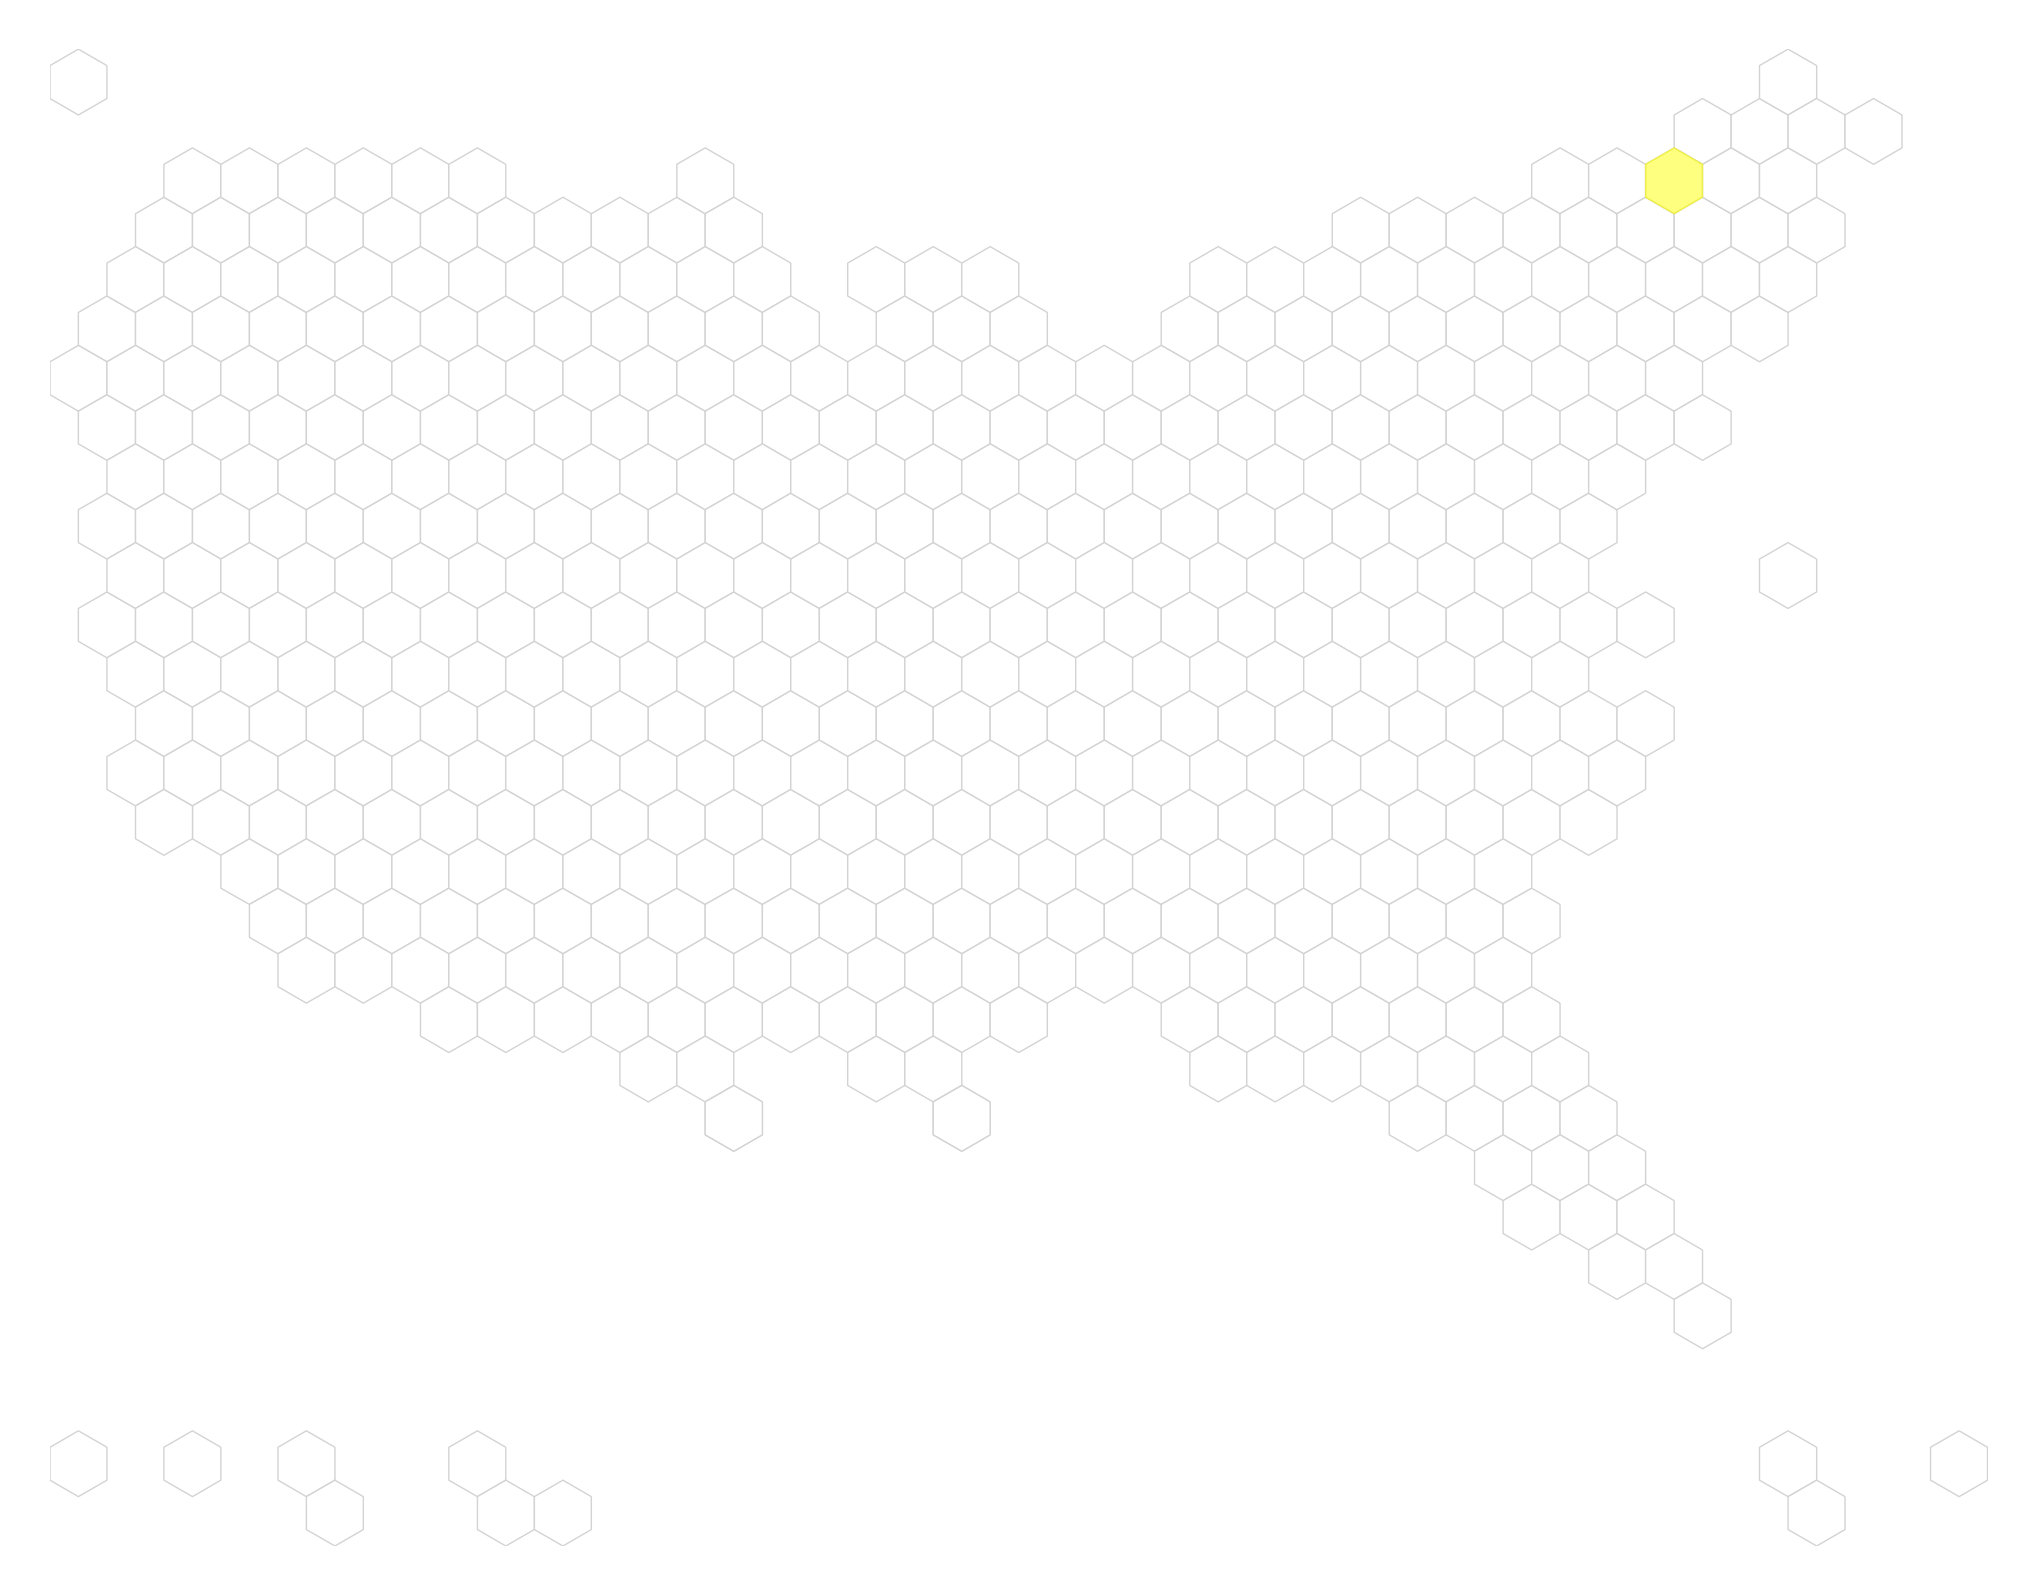
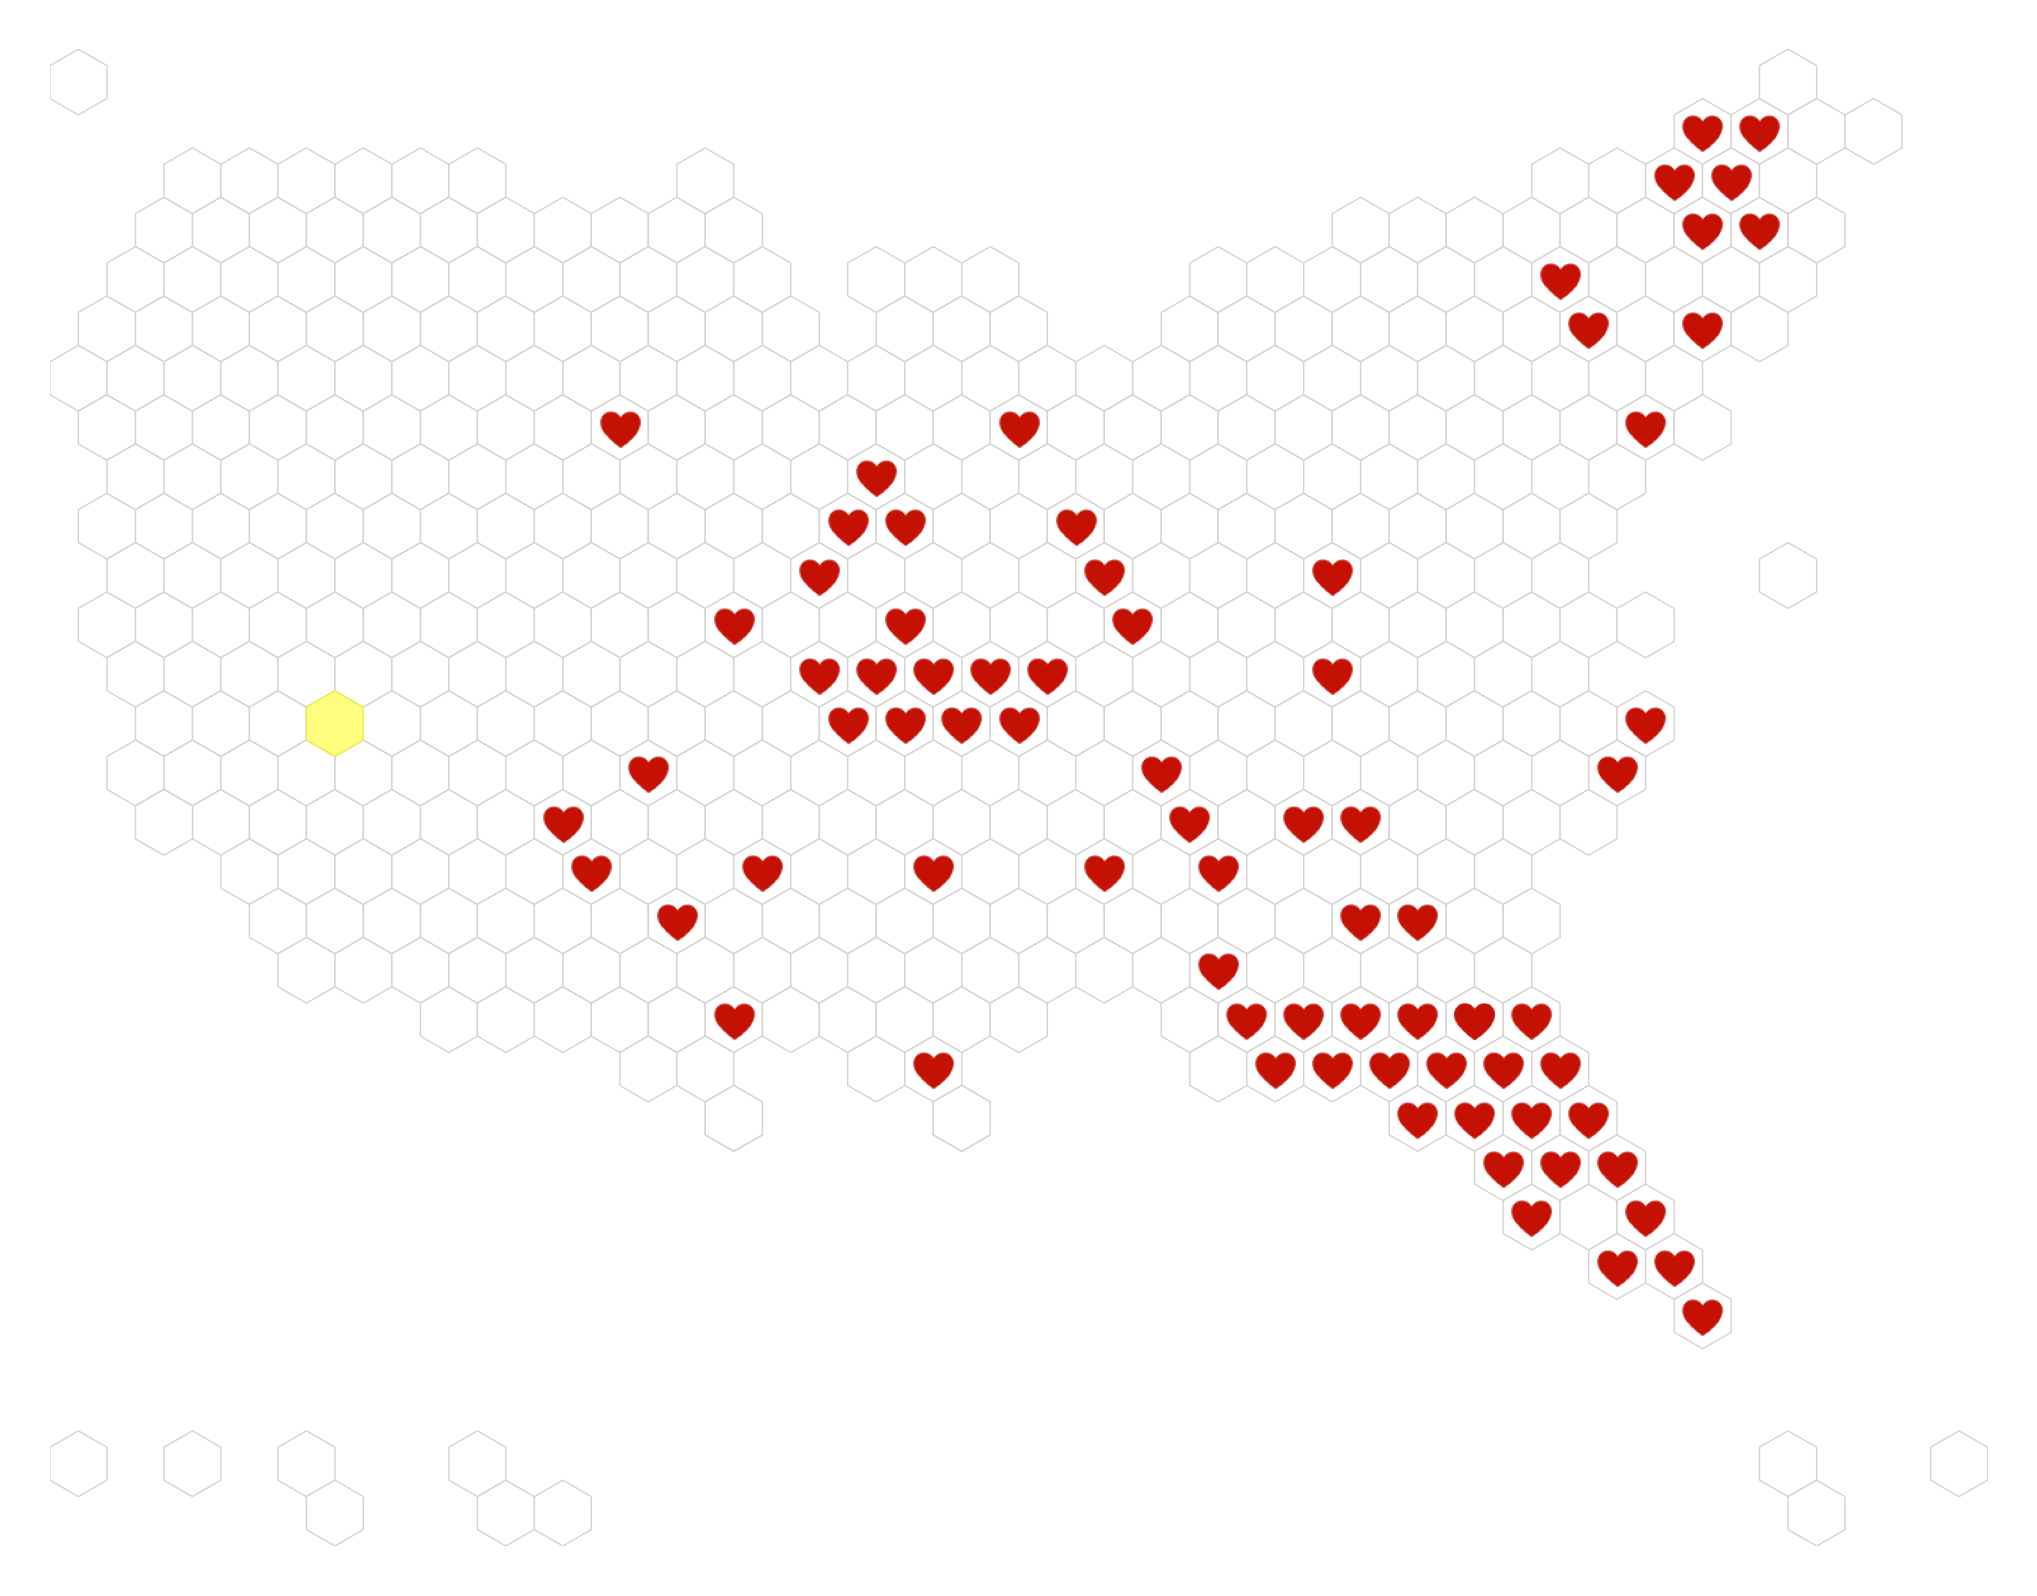
start process of creating multi-coloured hearts

diff --git a/templates/index.html b/templates/index.html
@@ -7,8 +7,8 @@
 </head>
 <body>
     <div class="queue-info">
-        <div>Constituencies left to pray for: <span id="remaining">{{ remaining }}</span></div>
-        <div>Constituencies waiting for prayer: <span id="queue_size">{{ queue|length }}</span></div>
+        <div>Representatives left to pray for: <span id="remaining">{{ remaining }}</span></div>
+        <div>Representatives waiting for prayer: <span id="queue_size">{{ queue|length }}</span></div>
     </div>
     <div class="content">
         <div class="left-content">
@@ -30,7 +30,7 @@
         <a href="/statistics">View Statistics</a>
     </div>
     <script>
-        let processedCount = {{ 488 - remaining }};
+        let processedCount = {{ 491 - remaining }};
 
         function updateQueueInfo() {
             console.log('Fetching queue data...');
@@ -88,7 +88,7 @@
             fetch('/process_item', { method: 'POST' })
                 .then(() => {
                     processedCount++;
-                    document.getElementById('remaining').innerText = 488 - processedCount;
+                    document.getElementById('remaining').innerText = 491 - processedCount;
                     updateQueueInfo();
                 })
                 .catch(error => {
@@ -101,7 +101,7 @@
                 .then(() => {
                     updateQueueInfo();
                     processedCount = 0;
-                    document.getElementById('remaining').innerText = 488;
+                    document.getElementById('remaining').innerText = 491;
                 })
                 .catch(error => {
                     console.error('Error purging queue:', error);

diff --git a/hex_map.py b/hex_map.py
@@ -53,7 +53,7 @@ def plot_hex_map_with_hearts(hex_map, post_label_mapping, prayed_for, queue, hea
             if not location_geom.empty:
                 centroid = location_geom.geometry.centroid.iloc[0]
                 print(f"Centroid for {location_code}: ({centroid.x}, {centroid.y})")
-                imagebox = OffsetImage(heart_img, zoom=0.8)  # Adjust the zoom level for heart size
+                imagebox = OffsetImage(heart_img, zoom=0.9)  # Adjust the zoom level for heart size
                 ab = AnnotationBbox(imagebox, (centroid.x, centroid.y), frameon=False)
                 ax.add_artist(ab)
                 print(f"Heart plotted for location {location_code}")
